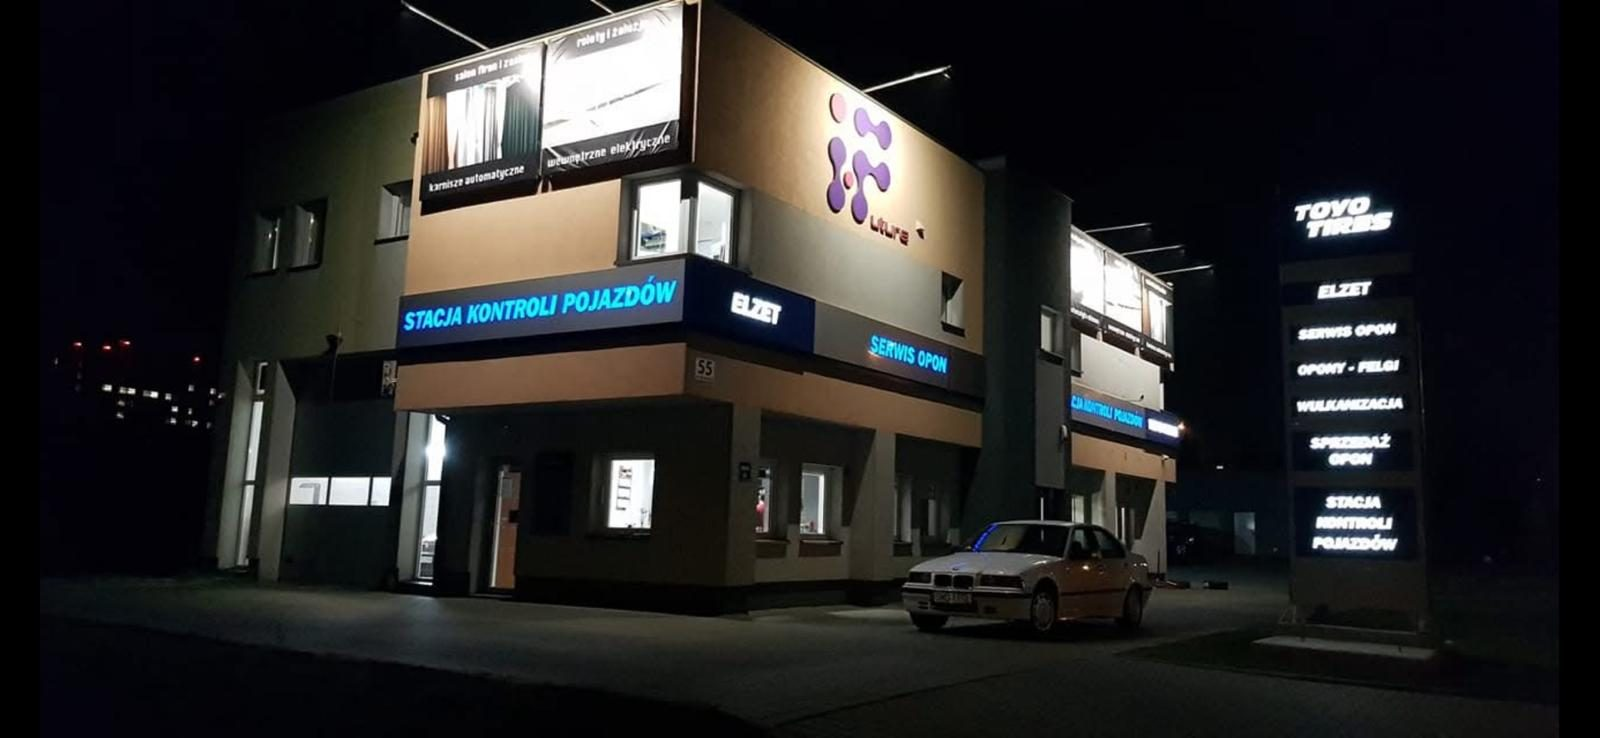
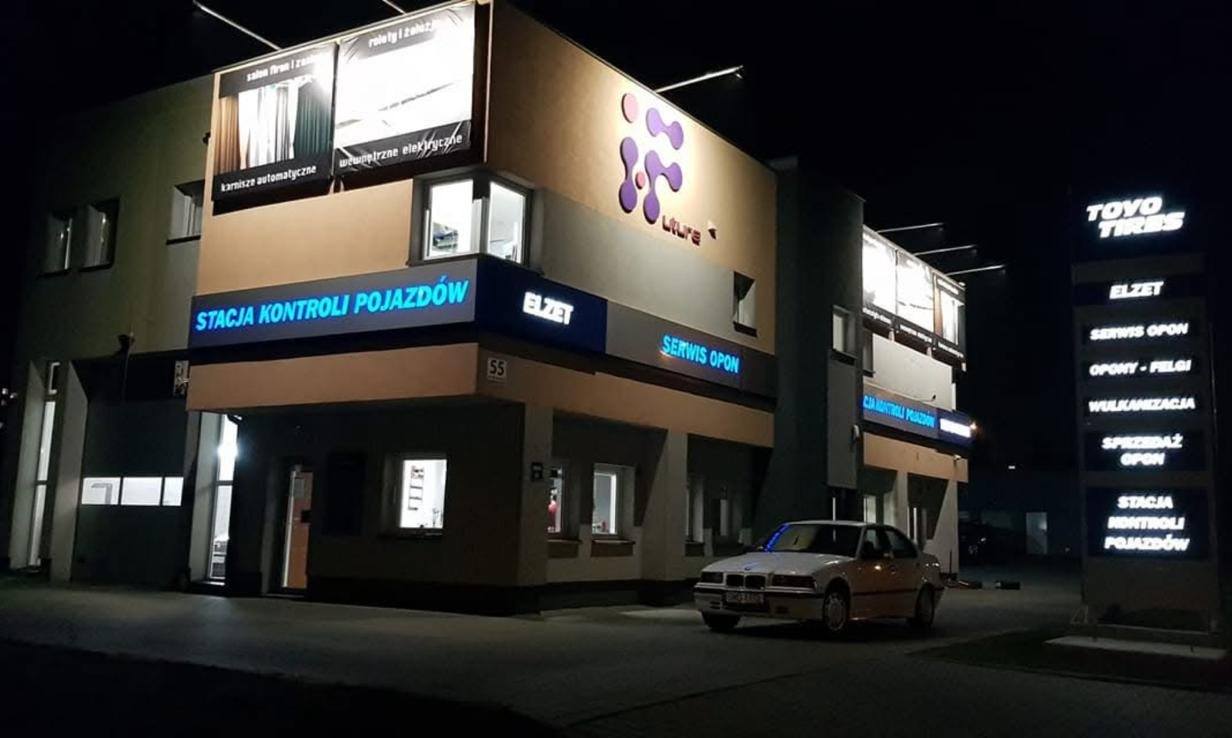
bigger image

diff --git a/style.css b/style.css
@@ -730,9 +730,9 @@ section { padding: 110px 0; }
 
 .showcase-grid {
   display: grid;
-  grid-template-columns: 1fr 1.1fr;
+  grid-template-columns: 0.85fr 1.35fr;
   align-items: center;
-  gap: 56px;
+  gap: 48px;
 }
 
 .showcase-content { color: white; }